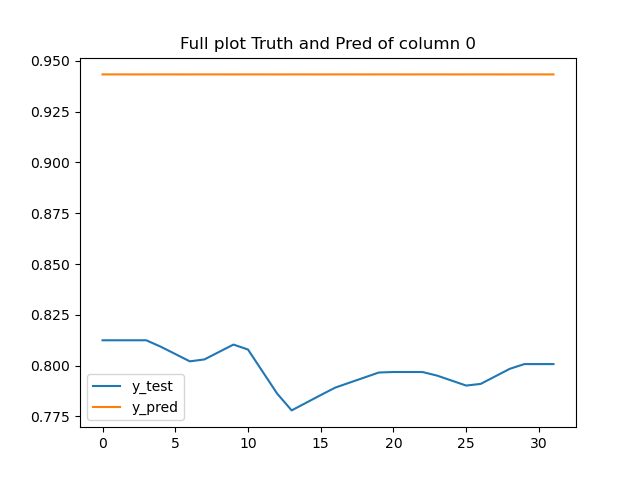
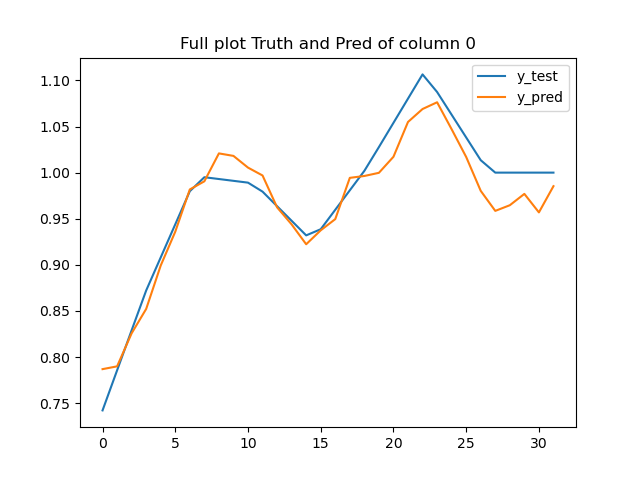
Major breakthrough !!!! Embedding timeseries into square form Attention is more efficient in memory usage (up to 128 seconds possible) comparable good like LSTM

diff --git a/train_lib_final.py b/train_lib_final.py
@@ -21,6 +21,7 @@ from tensorflow.keras.layers import (
     concatenate,
     Attention,
     MultiHeadAttention,
+    Flatten
     # SinePositionEncoding
 )
 from keras.models import Model
@@ -909,9 +910,9 @@ def setup_Conv_Att_E(input_shape, size, samplerate):
     # our input layer
     Input_encoder = Input(shape=input_shape)  # np.shape(X)[1:]
     # downsampling step of 2 is recommended. This way a higher resolution is maintained in the encoder
-    ds_step =  int(2**1)# factor of down- and upsampling of ecg timeseries
-    ds_samplerate = int(2**7) # Ziel samplerate beim Downsampling
-    orig_a_f = int(2**1) # first filter amount. low amount of filters ensures faster learning and training
+    ds_step =  int(2**4)# factor of down- and upsampling of ecg timeseries
+    ds_samplerate = int(2**2) # Ziel samplerate beim Downsampling
+    orig_a_f = int(2**4) # first filter amount. low amount of filters ensures faster learning and training
     amount_filter = orig_a_f
     encoder = Conv1D(amount_filter, # number of columns in output. filters
                      samplerate*2, # kernel size. We look at 2s snippets
@@ -941,13 +942,15 @@ def setup_Conv_Att_E(input_shape, size, samplerate):
         length = length/ds_step
         print("Downsampled to: ", int(samplerate/k), " Hz")
     
-    pred = attention_lib.Encoder(num_layers=3, d_model=amount_filter, length=length, num_heads=2, dff=length)(encoder, w_2=256)
+    # pred = attention_lib.Encoder(num_layers=1, d_model=amount_filter, length=length, num_heads=10, dff=length)(encoder, w_2=1)
+    # pred = attention_lib.Encoder(num_layers=1, d_model=amount_filter, length=length, num_heads=10, dff=length)(pred, w_2=2)
+    # pred = attention_lib.Encoder(num_layers=1, d_model=amount_filter, length=length, num_heads=10, dff=length)(pred, w_2=4)
     # pred = attention_lib.PositionalEmbedding(d_model=amount_filter, length=length)(encoder)
     # pred = attention_lib.EncoderLayer(d_model=amount_filter, num_heads=2, dff=length)(pred)
     # pred = attention_lib.FeedForward(d_model=amount_filter, dff=length)(encoder)
     
-    pred = MaxPooling1D(16)(pred)
-    length = length/16
+    # pred = MaxPooling1D(16)(pred)
+    # length = length/16
     # branching of the pseudo-tasks
     # expanding triangle / decoder until all branches combined are as wide as the input layer
     branch_dic = {}  # dictionary for the branches
@@ -956,11 +959,14 @@ def setup_Conv_Att_E(input_shape, size, samplerate):
     for x in range(len(out_types)):
         length = core_length
         if 'regressionTacho' in out_types[x]: # Tachogram regression output
-            branch_dic["branch{0}".format(x)] = attention_lib.PositionalEmbedding(d_model=amount_filter, length=length)(pred)
+            branch_dic["branch{0}".format(x)] = attention_lib.PositionalEmbedding(d_model=amount_filter, length=length)(encoder)
             branch_dic["branch{0}".format(x)] = attention_lib.EncoderLayer(d_model=amount_filter, num_heads=10, dff=length)(branch_dic["branch{0}".format(x)])
+            # branch_dic["branch{0}".format(x)] = Dense(4)(branch_dic["branch{0}".format(x)])
+            # branch_dic["branch{0}".format(x)] = K.layers.Flatten()(branch_dic["branch{0}".format(x)])
             # branch_dic["branch{0}".format(x)] = attention_lib.FeedForward(d_model=amount_filter, dff=length)(pred)
-            branch_dic["branch{0}".format(x)] = AveragePooling1D(2)(branch_dic["branch{0}".format(x)])
-            length = length/2
+            # branch_dic["branch{0}".format(x)] = AveragePooling1D(2)(branch_dic["branch{0}".format(x)])
+            # branch_dic["branch{0}".format(x)] = UpSampling1D(4)(branch_dic["branch{0}".format(x)])
+            # length = length/2
             # branch_dic["branch{0}".format(x)] = LSTM(size, return_sequences=True)(pred)
             # branch_dic["branch{0}".format(x)] = pos_encoder(pred)
             # branch_dic["branch{0}".format(x)] = MultiHeadAttention(num_heads=4,key_dim=amount_filter)(pred, pred)

diff --git a/train_final.py b/train_final.py
@@ -57,10 +57,10 @@ def train(total_epochs=250,
         # Extracting dataset from h5 into numpy array
         data_list = list(OUTPUT_name.keys()) + list(INPUT_name.keys()) # list of mentioned datasets
         data_list = tl.unique(data_list) # sorts out multiple occurences
-        # data, samplerate = tl.memorize("./data/training.h5", data_list)
+        data, samplerate = tl.memorize("./data/training.h5", data_list)
         # data, samplerate = tl.memorize_MIT_data(data_list, 'training')
-        amount = 10 # number of training patients
-        data, data_test, samplerate = tl.Icentia_memorize(amount, length_item, data_list)
+        # amount = 10 # number of training patients
+        # data, data_test, samplerate = tl.Icentia_memorize(amount, length_item, data_list)
         # mlflow.log_param("number of training examples", amount)
         # exit()
         
@@ -76,10 +76,10 @@ def train(total_epochs=250,
         # exit()
         print("\nMemorize test data ...")
         # Extracting dataset from h5 into numpy array
-        # data, samplerate = tl.memorize("./data/test.h5", data_list)
+        data, samplerate = tl.memorize("./data/test.h5", data_list)
         # data, samplerate = tl.memorize_MIT_data(data_list, 'test')
-        del data
-        data = data_test
+        # del data
+        # data = data_test
         print("Constructing test data ...")
         # Extracting items from whole dataset
         X_test, y_test, out_types = tl.set_items(data, INPUT_name, OUTPUT_name, length_item)
@@ -138,7 +138,7 @@ def train(total_epochs=250,
         #                 "ECG_output": 'MAE',
         #                 }
         # Callback
-        escb = EarlyStopping(monitor='MAE', patience=min(int(total_epochs/10),50), min_delta=0.0005, mode="min") # 'Tacho_output_MAE' 'ECG_output_MAE' 'binary_accuracy'
+        escb = EarlyStopping(monitor='MAE', patience=min(int(total_epochs/5),50), min_delta=0.005, mode="min") # 'Tacho_output_MAE' 'ECG_output_MAE' 'binary_accuracy'
         # escb = EarlyStopping(monitor='Symbols_output_sparse_categorical_accuracy', patience=min(int(total_epochs/5),50), min_delta=0.001, mode="max", restore_best_weights=True) # Symbols_output_
         
         # Train model on training set

diff --git a/laboratory.py b/laboratory.py
@@ -28,7 +28,7 @@ print("Experiment_id: {}".format(experiment.experiment_id))
 # length_item: number of data points in items
 
 train(NNsize=int(2**3), 
-      total_epochs=100, 
+      total_epochs=200, 
       length_item= 8,# 2**6, # Minimum 4 seconds. Because calc_symbols needs at leat 2 beats. in seconds
       # INPUT_name = {"symbols": ["lag 0"]},
       OUTPUT_name = {'Tacho': ["lag 0"]}, #, 'symbolsC': ["lag 0"]}, # 'parametersTacho': ["lag 0"]},# 'symbolsC': ["lag 0"], "words": ["lag 0"]}, "ECG": ["lag 0"], 'Tacho': ["lag 0"]
